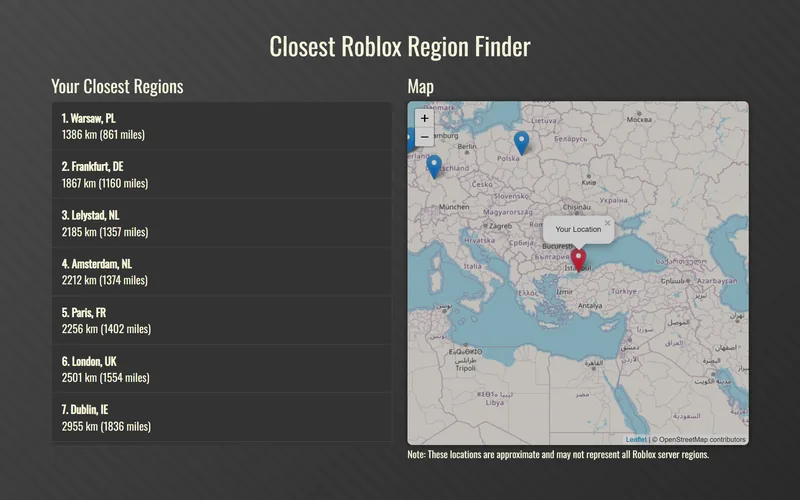
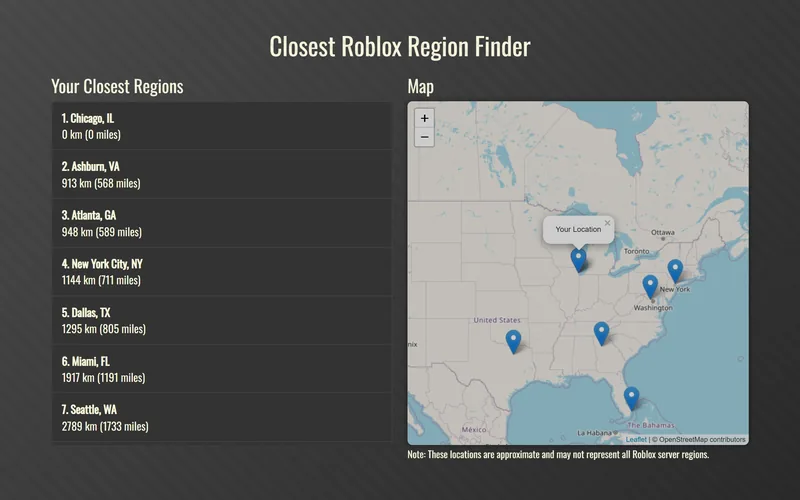
Archive the Lurkr.gg Username Finder and reshoot the Region Map thumbnail
The Lurkr tool no longer works, so it moves from the Other section to the archived list (search still finds it and links to its Netlify page). The Region Map thumbnail now uses a spoofed Chicago location instead of Istanbul.

diff --git a/src/data/projects.ts b/src/data/projects.ts
@@ -15,7 +15,6 @@ import rbxlxScriptExporter from '../assets/previews/rbxlx-script-exporter.webp';
 import libreConvert from '../assets/previews/libre-convert.webp';
 import timestampConverter from '../assets/previews/timestamp-converter.webp';
 import znake from '../assets/previews/znake.webp';
-import lurkrUsernameFinder from '../assets/previews/lurkr-username-finder.webp';
 
 export type Category = 'tc2' | 'tf2' | 'roblox' | 'other';
 
@@ -39,13 +38,14 @@ export interface Project {
   icon?: string;
   /** Extra search terms that are not in the name or description. */
   keywords?: string;
-  external?: boolean;
 }
 
 export interface ArchivedProject {
   name: string;
   slug: string;
   keywords?: string;
+  /** For projects hosted elsewhere; otherwise the link is /archives/<slug>/. */
+  href?: string;
 }
 
 // Within each category the most used tool goes first.
@@ -207,20 +207,10 @@ export const projects: Project[] = [
     preview: znake,
     keywords: 'snake game',
   },
-  {
-    name: 'Lurkr.gg Username Finder',
-    fullName: 'Lurkr.gg Username Finder',
-    description: 'Look up usernames on Lurkr.gg.',
-    category: 'other',
-    href: 'https://starlit-shortbread-ca47d4.netlify.app/',
-    preview: lurkrUsernameFinder,
-    keywords: 'lurkr discord',
-    external: true,
-  },
 ];
 
 // Served from the Rhgx/archives repository at /archives/<slug>/.
-// Keep in sync with the redirect list in public/404.html.
+// Keep in sync with the redirect list in public/404.html and the archives index page.
 export const archived: ArchivedProject[] = [
   { name: 'TF2 Data Visualizer (v1)', slug: 'tf2-data-visualizer-v1', keywords: 'tf2 stats old' },
   { name: 'Roblox Atlas Generator', slug: 'video-to-atlas', keywords: 'roblox video sprite sheet' },
@@ -233,4 +223,11 @@ export const archived: ArchivedProject[] = [
   { name: 'TC2 Puzzle Game', slug: 'tc2-puzzle' },
   { name: 'TC2 Server Browser', slug: 'tc2-server-browser', keywords: 'servers' },
   { name: "Rock's Typical Item Shop", slug: 'rocks-item-shop', keywords: 'tc2 store' },
+  // Hosted on Netlify, so it is listed here but not part of the archives repository.
+  {
+    name: 'Lurkr.gg Username Finder',
+    slug: 'lurkr-username-finder',
+    keywords: 'lurkr discord',
+    href: 'https://starlit-shortbread-ca47d4.netlify.app/',
+  },
 ];

diff --git a/src/components/ProjectCard.tsx b/src/components/ProjectCard.tsx
@@ -1,16 +1,10 @@
-import { ArrowUpRight } from 'lucide-react';
 import type { Project } from '../data/projects';
 
 export function ProjectCard({ project }: { project: Project }) {
-  const { name, fullName, description, href, preview, icon, external } = project;
+  const { name, fullName, description, href, preview, icon } = project;
 
   return (
-    <a
-      className="card"
-      href={href}
-      title={fullName}
-      {...(external ? { target: '_blank', rel: 'noopener noreferrer' } : {})}
-    >
+    <a className="card" href={href} title={fullName}>
       <div className="thumb">
         <img src={preview} alt="" width={480} height={300} loading="lazy" decoding="async" />
       </div>
@@ -28,7 +22,6 @@ export function ProjectCard({ project }: { project: Project }) {
             />
           )}
           <span>{name}</span>
-          {external && <ArrowUpRight className="ext" aria-label="Opens in a new tab" />}
         </div>
         <div className="desc">{description}</div>
       </div>

diff --git a/src/styles/app.css b/src/styles/app.css
@@ -101,7 +101,6 @@ section h2 .count { color: var(--dim); font-weight: 400; font-size: 14px; }
 .name span, .desc { display: -webkit-box; -webkit-box-orient: vertical; -webkit-line-clamp: 2; overflow: hidden; }
 .name span { text-wrap: balance; }
 .name .icon { width: 16px; height: 16px; flex: none; margin-top: 1px; border-radius: 3px; object-fit: contain; }
-.name svg.ext { width: 14px; height: 14px; margin-top: 2px; color: var(--dim); }
 .desc { margin-top: 3px; color: var(--muted); font-size: 13px; line-height: 1.45; }
 
 /* Archived search matches and empty state */

diff --git a/src/App.tsx b/src/App.tsx
@@ -104,7 +104,7 @@ export function App() {
               <ul>
                 {archivedMatches.map((a) => (
                   <li key={a.slug}>
-                    <a href={`/archives/${a.slug}/`}>{a.name}</a>
+                    <a href={a.href ?? `/archives/${a.slug}/`}>{a.name}</a>
                   </li>
                 ))}
               </ul>
